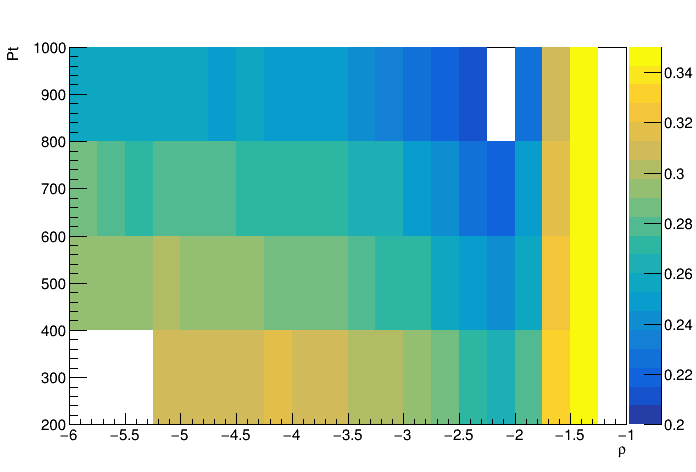
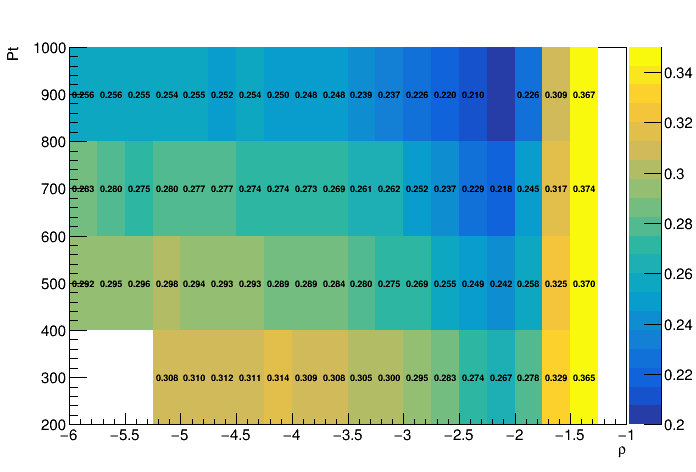
modify the range of z axis

diff --git a/N2_study.C b/N2_study.C
@@ -256,7 +256,7 @@ void N2_study(){
 	}
 	gStyle->SetPaintTextFormat("5.3f");
 	h_pt_rho->SetMinimum(0.2);
-	h_pt_rho->SetMaximum(0.32);
+	h_pt_rho->SetMaximum(0.35);
 	TCanvas* cpt = new TCanvas("cpt","cpt");
 	h_pt_rho->SetXTitle("#rho");
 	h_pt_rho->SetYTitle("Pt");
